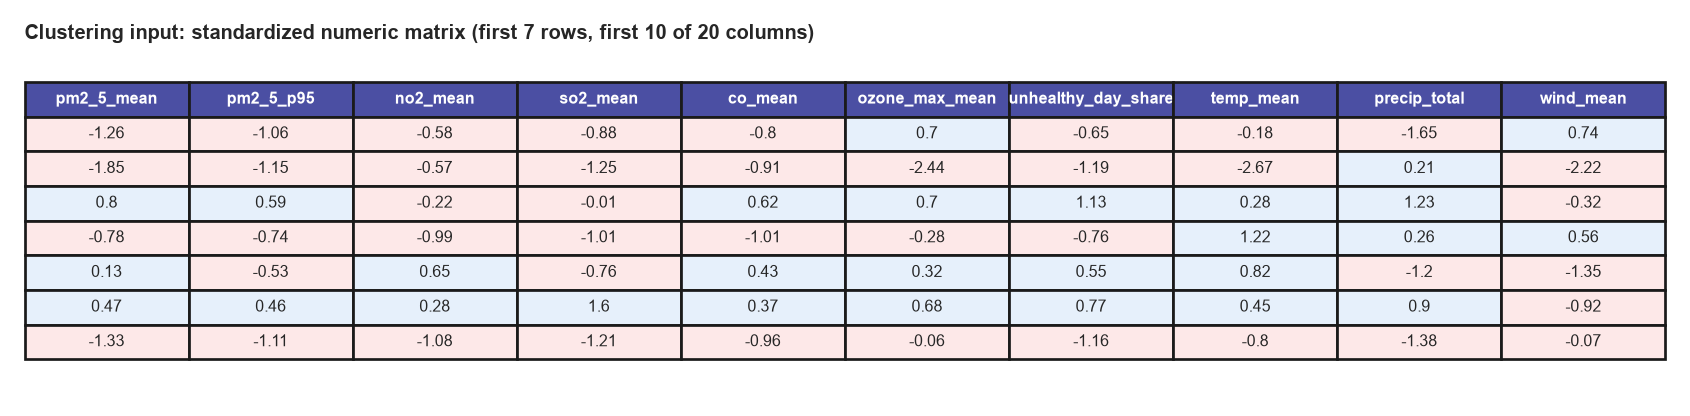
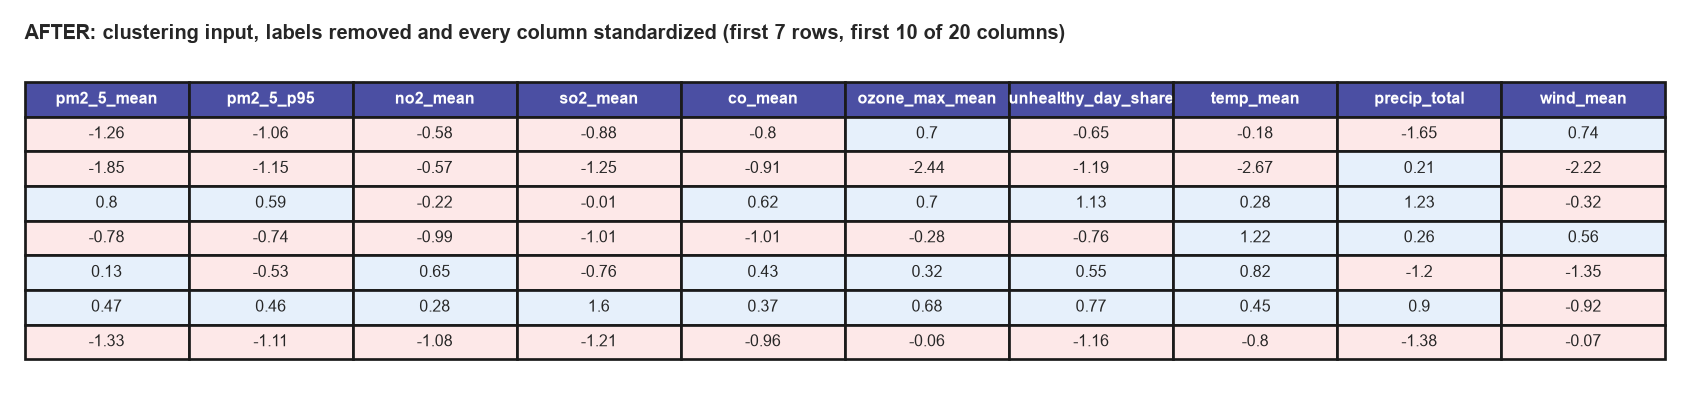
Add before/after data images, non-technical conclusions and PCA usage section to match rubric

Changed region(s): [[0.0, 0.0312, 0.6462, 0.0938]]

diff --git a/clustering.html b/clustering.html
@@ -39,7 +39,14 @@
 <h2>Data Prep</h2>
 <p>Clustering needs <b>unlabeled numeric data</b> only. Every column must be a number, because distances are computed between rows, and no label such as the city name, region or asthma category may be included, because a label would either break the distance calculation or leak the answer into the groups. Variables on large scales would also dominate the distances: carbon monoxide is measured in the hundreds while the unhealthy-day share is between 0 and 1. Every column was therefore standardized to a mean of 0 and a standard deviation of 1 (a z-score).</p>
 <p>The sample comes from the city-level table, which has one row per city (50 cities, no missing values). Twenty numeric columns were kept: <b>air quality</b> (mean and 95th percentile of PM2.5, nitrogen dioxide, sulphur dioxide, carbon monoxide, mean daily maximum ozone, share of days with AQI above 100), <b>weather</b> (mean temperature, total precipitation, mean wind speed) and <b>health</b> (county prevalence of uninsured adults, high blood pressure, asthma, heart disease, COPD, smoking, depression, diabetes, physical inactivity, obesity). PM10 and mean AQI were left out because they nearly duplicate PM2.5 and the unhealthy-day share and would count the same signal twice. The city name, state, county, region, latitude, longitude, population, number of days, and the High/Low asthma and PM2.5 levels were removed before clustering and kept aside to interpret the results.</p>
-<figure><a href="images/cluster_01_data_sample.png"><img src="images/cluster_01_data_sample.png" alt="Sample of the data given to the clustering algorithms"></a><figcaption><b>Sample of the data given to the clustering algorithms.</b> Each row is one city and each column is one standardized variable, with no names or labels attached; the first seven rows and ten of twenty columns are shown. Pink cells are below the average of all cities and blue cells are above it.</figcaption></figure>
+<figure><a href="images/cluster_01a_data_before.png"><img src="images/cluster_01a_data_before.png" alt="Before transforming: the cleaned city table"></a><figcaption><b>Before transforming: the cleaned city table.</b> The table mixes label columns (orange: city, state, region and asthma level) with numbers in very different units, such as carbon monoxide in the hundreds and COPD in single digits. Only the numeric columns (blue headers) can be used for clustering.</figcaption></figure>
+<h3>The transformation, step by step</h3>
+<ol>
+<li><b>Remove the labels.</b> City, state, county, region, the High/Low asthma level and the PM2.5 level, latitude, longitude, population and number of days were taken out of the matrix and stored separately. They are used only afterwards, to interpret the clusters.</li>
+<li><b>Drop duplicated signals.</b> PM10 and mean AQI were removed because they nearly repeat PM2.5 and the unhealthy-day share.</li>
+<li><b>Standardize every column.</b> Each value had its column average subtracted and was divided by the column standard deviation. For example, Albuquerque's mean PM2.5 of 7.37 (average of all 50 cities 10.54, standard deviation 2.53) becomes -1.26, and its carbon monoxide of 186.3 (average 223.7, standard deviation 46.6) becomes -0.80, so both now sit on the same scale.</li>
+</ol>
+<figure><a href="images/cluster_01_data_sample.png"><img src="images/cluster_01_data_sample.png" alt="After transforming: the data given to the clustering algorithms"></a><figcaption><b>After transforming: the data given to the clustering algorithms.</b> Each row is one city and each column is one standardized variable, with no names or labels attached; the first seven rows and ten of twenty columns are shown. Pink cells are below the average of all cities and blue cells are above it.</figcaption></figure>
 <ul>
 <li><a href="data/clean/clustering_input_numeric.csv">clustering_input_numeric.csv</a>: the 50 x 20 numeric matrix in original units (row order follows the city table)</li>
 <li><a href="data/clean/clustering_input_scaled.csv">clustering_input_scaled.csv</a>: the same matrix after standardization, which is what the algorithms receive</li>
@@ -83,8 +90,9 @@
 
 <section>
 <h2>Conclusions</h2>
-<p>The main discovery is that the pollution and the lung disease cluster in <b>different places</b>. The nine large metropolitan areas with the highest PM2.5 (Los Angeles, New York, Chicago, Atlanta, Charlotte, Washington, Phoenix, Riverside and San Diego, mean PM2.5 of 14.0 against 9.3 to 10.9 in the other clusters) have relatively low COPD (4.9%) and smoking (10.3%), while the heartland and Deep South cluster has only moderately elevated PM2.5 (10.9) but the highest COPD (7.2%), smoking (14.9%), obesity (36.5%) and asthma (11.2%). This is consistent with the weak negative link between city PM2.5 and asthma found during exploration (r = -0.12), and it suggests that smoking, obesity and socioeconomic conditions group with respiratory illness more closely than outdoor particulate pollution does at this coarse scale.</p>
-<p>Weather and geography sort cities as well: the warm cluster averages 20.4 C against 11.9 C for the cool cluster, and also has the highest share of uninsured adults (16.9%). The groups are real but loose, though, as shown by silhouette scores of about 0.2 and the disagreement between the two methods at k = 3 and k = 4. The answer to the Introduction question is therefore that the cities can be described by roughly two broad types or four finer ones, but with many cities sitting between types. Limits to keep in mind are that the pollution values come from a coarse model, the health values describe whole counties, and 50 cities is a small sample.</p>
+<p>American cities do fall into recognizable types, although the borders between the types are blurry. Four kinds of city stand out. <b>Large metropolitan areas with the dirtiest air</b> include Los Angeles, New York, Chicago, Atlanta, Washington, Phoenix and San Diego. <b>Heartland and Deep South cities</b>, such as Detroit, Cleveland, Memphis, Nashville and New Orleans, carry the heaviest burden of lung disease. <b>Cool, clean cities</b>, mostly in the West (Seattle, Denver, Boise, Salt Lake City and others), have the lowest average rates of smoking, obesity and COPD. <b>Warm, low-pollution cities</b>, such as Houston, Miami, Las Vegas and Tucson, have clean air but many adults without health insurance.</p>
+<p>The most important lesson is that the dirtiest air and the sickest lungs are not in the same places. The big metropolitan areas with the most polluted air have relatively low rates of COPD and smoking, while the heartland cities with only moderately polluted air have the highest rates of COPD, asthma, smoking and obesity. This matches the earlier finding that cities with more fine-particle pollution did not have more asthma, and it suggests that smoking, weight, income and access to health care shape how common lung disease is in a city at least as much as the outdoor air does. Weather and geography sort the cities as well, since the warm group averages about 20 degrees Celsius and the cool group about 12.</p>
+<p>These types are a helpful summary and not hard categories. Many cities sit between two groups, and two different grouping methods agreed on the broad picture but placed some cities differently. The air quality values are model estimates, the health values describe whole counties, and only 50 cities were studied, so the findings should be read as patterns and not as proof. For decision makers, the results suggest that smog and smoke warnings matter most in the big metropolitan areas, while stop-smoking and health insurance programs matter most in the heartland and the Deep South.</p>
 </section>
 
 </main>

diff --git a/pca.html b/pca.html
@@ -35,11 +35,22 @@
 <figure><a href="images/pca_00b_curse_of_dimensionality.png"><img src="images/pca_00b_curse_of_dimensionality.png" alt="The curse of dimensionality"></a><figcaption><b>The curse of dimensionality.</b> Averaged over 50 simulations of 300 random points, the ratio of the nearest to the farthest distance from one point climbs toward 1 as the number of dimensions grows, which means that neighbors stop looking different from strangers. The values come from a simulation of uniformly random points.</figcaption></figure>
 </section>
 
+<h3>How PCA is used in this project</h3>
+<p>The daily table describes every city-day with 13 measurements that overlap heavily: PM2.5 and PM10 are almost the same signal, three temperature columns move together, and ozone rises with sunshine. PCA is used here to (1) find out which measurements move together and which are independent, (2) shrink the 13 measurements to a few patterns that still describe most of the day-to-day variation, (3) draw the 20,075 city-days on a flat plot so that seasons, cities and AQI categories can be compared by eye, and (4) prepare a smaller, less redundant set of inputs for the models in the later parts of the project.</p>
+</section>
+
 <section>
 <h2>Data Prep</h2>
 <p>PCA requires a <b>numeric</b> matrix with <b>no missing values</b> and no label columns. Because it works on variance, variables with large units would dominate: carbon monoxide is measured in hundreds while precipitation is mostly near zero. Each column was therefore <b>centered and scaled</b> to a mean of 0 and a standard deviation of 1 before the analysis, so that PCA effectively decomposes the correlation matrix.</p>
 <p>The sample is the daily city table: <b>20,075 city-days by 13 numeric columns</b>. The variables are PM2.5, PM10, carbon monoxide, nitrogen dioxide, sulphur dioxide, maximum ozone, maximum AQI, mean, maximum and minimum temperature, precipitation, maximum wind speed and solar radiation. The city, state, date, month, season, region, AQI category and rainy-day flag were removed from the matrix and kept aside, to color the plots afterwards. Extreme smoke days were kept in the data, since they are real events, which means that they can pull the components toward pollution.</p>
-<figure><a href="images/pca_01_data_sample.png"><img src="images/pca_01_data_sample.png" alt="Sample of the data given to PCA"></a><figcaption><b>Sample of the data given to PCA.</b> Each row is one city-day and each column is one standardized measurement, with no names or labels attached; the first seven rows and ten of thirteen columns are shown. Pink cells are below the overall average and blue cells above it.</figcaption></figure>
+<figure><a href="images/pca_01a_data_before.png"><img src="images/pca_01a_data_before.png" alt="Before transforming: the cleaned daily table"></a><figcaption><b>Before transforming: the cleaned daily table.</b> The table mixes label columns (orange: city, date, season and AQI category) with measurements in very different units, such as carbon monoxide in the hundreds and precipitation in single digits. Only the numeric columns (blue headers) go into PCA.</figcaption></figure>
+<h3>The transformation, step by step</h3>
+<ol>
+<li><b>Remove the labels.</b> City, state, date, month, season, region, AQI category and the rainy-day flag were taken out of the matrix and kept aside, to color the plots afterwards.</li>
+<li><b>Keep the 13 numeric measurements</b> for all 20,075 city-days. There were no missing values to fill.</li>
+<li><b>Center and scale every column.</b> Each value had its column average subtracted and was divided by the column standard deviation. For example, on 1 January 2023 in Albuquerque the mean temperature of 6.5 C (average of all city-days 15.57, standard deviation 9.44) becomes -0.96, and carbon monoxide of 280.6 (average 225.95, standard deviation 89.67) becomes 0.61.</li>
+</ol>
+<figure><a href="images/pca_01_data_sample.png"><img src="images/pca_01_data_sample.png" alt="After transforming: the data given to PCA"></a><figcaption><b>After transforming: the data given to PCA.</b> Each row is one city-day and each column is one standardized measurement, with no names or labels attached; the first seven rows and ten of thirteen columns are shown. Pink cells are below the overall average and blue cells above it.</figcaption></figure>
 <ul>
 <li><a href="data/clean/pca_input_numeric.csv">pca_input_numeric.csv</a>: the full 20,075 x 13 numeric matrix in original units</li>
 <li><a href="data/clean/pca_scores_sample.csv">pca_scores_sample.csv</a>: the scores on the first five components for a random sample of 2,000 city-days, with the labels used for coloring</li>
@@ -80,8 +91,9 @@
 
 <section>
 <h2>Conclusions</h2>
-<p>The 13 daily measurements are far more redundant than they first appear. Three components (71.9% of the variance) are enough to describe the main patterns, and each has a plain meaning: how hot and sunny the day is (with ozone rising with it), how much combustion pollution has built up, and how wet and windy the weather is. Heat and ozone move together, and combustion pollution tends to build up on cool days, so the seasons leave two distinct signatures: summer smog on one axis and winter pollution on the other. Fine particles (PM2.5) load on both axes, which suggests that weather alone will not predict them well.</p>
-<p>The components also line up with air quality categories, so a day's position on just two axes already says a great deal about whether the air is likely to be unhealthy. At the city level, Los Angeles combines both kinds of pollution, desert and Southwest cities are mainly hot and ozone-driven, and cities such as Anchorage and Portland are low on both. For the rest of the project, these results suggest that later models can use a few components or a few carefully chosen variables in place of 13 overlapping ones. PCA is linear and sensitive to extreme days such as the smoke episodes, and the later components (beyond the third) carry small, harder-to-interpret shares of the variation.</p>
+<p>The 13 daily measurements are mostly telling the same few stories. About three patterns describe most of what changes from one day to the next: how hot and sunny the day is, how much traffic and heating pollution has built up, and how wet and windy the weather is. Hot, sunny summer days are when ozone smog is worst, while cool, still winter days are when exhaust-type pollution builds up near the ground. Fine particles belong to both stories, since they come from local pollution, from sunlight-driven chemistry and from smoke, which is why weather alone does not predict them well.</p>
+<p>The same two patterns line up with the air quality ratings, even though the method knew nothing about them: days rated Unhealthy or Very Unhealthy sit at the extreme end of both patterns, while Good days sit at the opposite end. Cities have their own signatures. Los Angeles combines both kinds of pollution, Phoenix and Riverside are mainly hot and smoggy, Anchorage and Portland are cool, with little of the warm-weather smog, and Honolulu, Tucson and Miami have the lowest build-up of combustion pollution. For everyday life, this means that summer afternoons are the time to watch for smog and cold winter days are the time to watch for traffic and heating pollution in big cities.</p>
+<p>The results also help the rest of the project, because a few combined patterns can replace many overlapping measurements in later predictions. The patterns are a simplified summary, and rare events such as the 2023 smoke episodes do not fit neatly into the usual seasonal stories, so they deserve separate attention.</p>
 </section>
 
 </main>

diff --git a/code/build_site.py b/code/build_site.py
@@ -396,7 +396,15 @@ clustering = f"""
 <h2>Data Prep</h2>
 <p>Clustering needs <b>unlabeled numeric data</b> only. Every column must be a number, because distances are computed between rows, and no label such as the city name, region or asthma category may be included, because a label would either break the distance calculation or leak the answer into the groups. Variables on large scales would also dominate the distances: carbon monoxide is measured in the hundreds while the unhealthy-day share is between 0 and 1. Every column was therefore standardized to a mean of 0 and a standard deviation of 1 (a z-score).</p>
 <p>The sample comes from the city-level table, which has one row per city (50 cities, no missing values). Twenty numeric columns were kept: <b>air quality</b> (mean and 95th percentile of PM2.5, nitrogen dioxide, sulphur dioxide, carbon monoxide, mean daily maximum ozone, share of days with AQI above 100), <b>weather</b> (mean temperature, total precipitation, mean wind speed) and <b>health</b> (county prevalence of uninsured adults, high blood pressure, asthma, heart disease, COPD, smoking, depression, diabetes, physical inactivity, obesity). PM10 and mean AQI were left out because they nearly duplicate PM2.5 and the unhealthy-day share and would count the same signal twice. The city name, state, county, region, latitude, longitude, population, number of days, and the High/Low asthma and PM2.5 levels were removed before clustering and kept aside to interpret the results.</p>
-{fig("cluster_01_data_sample.png", "Sample of the data given to the clustering algorithms",
+{fig("cluster_01a_data_before.png", "Before transforming: the cleaned city table",
+     "The table mixes label columns (orange: city, state, region and asthma level) with numbers in very different units, such as carbon monoxide in the hundreds and COPD in single digits. Only the numeric columns (blue headers) can be used for clustering.")}
+<h3>The transformation, step by step</h3>
+<ol>
+<li><b>Remove the labels.</b> City, state, county, region, the High/Low asthma level and the PM2.5 level, latitude, longitude, population and number of days were taken out of the matrix and stored separately. They are used only afterwards, to interpret the clusters.</li>
+<li><b>Drop duplicated signals.</b> PM10 and mean AQI were removed because they nearly repeat PM2.5 and the unhealthy-day share.</li>
+<li><b>Standardize every column.</b> Each value had its column average subtracted and was divided by the column standard deviation. For example, Albuquerque's mean PM2.5 of 7.37 (average of all 50 cities 10.54, standard deviation 2.53) becomes -1.26, and its carbon monoxide of 186.3 (average 223.7, standard deviation 46.6) becomes -0.80, so both now sit on the same scale.</li>
+</ol>
+{fig("cluster_01_data_sample.png", "After transforming: the data given to the clustering algorithms",
      "Each row is one city and each column is one standardized variable, with no names or labels attached; the first seven rows and ten of twenty columns are shown. Pink cells are below the average of all cities and blue cells are above it.")}
 <ul>
 <li><a href="{CLEANLINK}clustering_input_numeric.csv">clustering_input_numeric.csv</a>: the 50 x 20 numeric matrix in original units (row order follows the city table)</li>
@@ -449,8 +457,9 @@ clustering = f"""
 
 <section>
 <h2>Conclusions</h2>
-<p>The main discovery is that the pollution and the lung disease cluster in <b>different places</b>. The nine large metropolitan areas with the highest PM2.5 (Los Angeles, New York, Chicago, Atlanta, Charlotte, Washington, Phoenix, Riverside and San Diego, mean PM2.5 of 14.0 against 9.3 to 10.9 in the other clusters) have relatively low COPD (4.9%) and smoking (10.3%), while the heartland and Deep South cluster has only moderately elevated PM2.5 (10.9) but the highest COPD (7.2%), smoking (14.9%), obesity (36.5%) and asthma (11.2%). This is consistent with the weak negative link between city PM2.5 and asthma found during exploration (r = -0.12), and it suggests that smoking, obesity and socioeconomic conditions group with respiratory illness more closely than outdoor particulate pollution does at this coarse scale.</p>
-<p>Weather and geography sort cities as well: the warm cluster averages 20.4 C against 11.9 C for the cool cluster, and also has the highest share of uninsured adults (16.9%). The groups are real but loose, though, as shown by silhouette scores of about 0.2 and the disagreement between the two methods at k = 3 and k = 4. The answer to the Introduction question is therefore that the cities can be described by roughly two broad types or four finer ones, but with many cities sitting between types. Limits to keep in mind are that the pollution values come from a coarse model, the health values describe whole counties, and 50 cities is a small sample.</p>
+<p>American cities do fall into recognizable types, although the borders between the types are blurry. Four kinds of city stand out. <b>Large metropolitan areas with the dirtiest air</b> include Los Angeles, New York, Chicago, Atlanta, Washington, Phoenix and San Diego. <b>Heartland and Deep South cities</b>, such as Detroit, Cleveland, Memphis, Nashville and New Orleans, carry the heaviest burden of lung disease. <b>Cool, clean cities</b>, mostly in the West (Seattle, Denver, Boise, Salt Lake City and others), have the lowest average rates of smoking, obesity and COPD. <b>Warm, low-pollution cities</b>, such as Houston, Miami, Las Vegas and Tucson, have clean air but many adults without health insurance.</p>
+<p>The most important lesson is that the dirtiest air and the sickest lungs are not in the same places. The big metropolitan areas with the most polluted air have relatively low rates of COPD and smoking, while the heartland cities with only moderately polluted air have the highest rates of COPD, asthma, smoking and obesity. This matches the earlier finding that cities with more fine-particle pollution did not have more asthma, and it suggests that smoking, weight, income and access to health care shape how common lung disease is in a city at least as much as the outdoor air does. Weather and geography sort the cities as well, since the warm group averages about 20 degrees Celsius and the cool group about 12.</p>
+<p>These types are a helpful summary and not hard categories. Many cities sit between two groups, and two different grouping methods agreed on the broad picture but placed some cities differently. The air quality values are model estimates, the health values describe whole counties, and only 50 cities were studied, so the findings should be read as patterns and not as proof. For decision makers, the results suggest that smog and smoke warnings matter most in the big metropolitan areas, while stop-smoking and health insurance programs matter most in the heartland and the Deep South.</p>
 </section>
 """
 
@@ -477,11 +486,23 @@ pca_page = f"""
      "Averaged over 50 simulations of 300 random points, the ratio of the nearest to the farthest distance from one point climbs toward 1 as the number of dimensions grows, which means that neighbors stop looking different from strangers. The values come from a simulation of uniformly random points.")}
 </section>
 
+<h3>How PCA is used in this project</h3>
+<p>The daily table describes every city-day with 13 measurements that overlap heavily: PM2.5 and PM10 are almost the same signal, three temperature columns move together, and ozone rises with sunshine. PCA is used here to (1) find out which measurements move together and which are independent, (2) shrink the 13 measurements to a few patterns that still describe most of the day-to-day variation, (3) draw the 20,075 city-days on a flat plot so that seasons, cities and AQI categories can be compared by eye, and (4) prepare a smaller, less redundant set of inputs for the models in the later parts of the project.</p>
+</section>
+
 <section>
 <h2>Data Prep</h2>
 <p>PCA requires a <b>numeric</b> matrix with <b>no missing values</b> and no label columns. Because it works on variance, variables with large units would dominate: carbon monoxide is measured in hundreds while precipitation is mostly near zero. Each column was therefore <b>centered and scaled</b> to a mean of 0 and a standard deviation of 1 before the analysis, so that PCA effectively decomposes the correlation matrix.</p>
 <p>The sample is the daily city table: <b>{PR["n_rows"]:,} city-days by {PR["n_features"]} numeric columns</b>. The variables are PM2.5, PM10, carbon monoxide, nitrogen dioxide, sulphur dioxide, maximum ozone, maximum AQI, mean, maximum and minimum temperature, precipitation, maximum wind speed and solar radiation. The city, state, date, month, season, region, AQI category and rainy-day flag were removed from the matrix and kept aside, to color the plots afterwards. Extreme smoke days were kept in the data, since they are real events, which means that they can pull the components toward pollution.</p>
-{fig("pca_01_data_sample.png", "Sample of the data given to PCA",
+{fig("pca_01a_data_before.png", "Before transforming: the cleaned daily table",
+     "The table mixes label columns (orange: city, date, season and AQI category) with measurements in very different units, such as carbon monoxide in the hundreds and precipitation in single digits. Only the numeric columns (blue headers) go into PCA.")}
+<h3>The transformation, step by step</h3>
+<ol>
+<li><b>Remove the labels.</b> City, state, date, month, season, region, AQI category and the rainy-day flag were taken out of the matrix and kept aside, to color the plots afterwards.</li>
+<li><b>Keep the 13 numeric measurements</b> for all {PR["n_rows"]:,} city-days. There were no missing values to fill.</li>
+<li><b>Center and scale every column.</b> Each value had its column average subtracted and was divided by the column standard deviation. For example, on 1 January 2023 in Albuquerque the mean temperature of 6.5 C (average of all city-days 15.57, standard deviation 9.44) becomes -0.96, and carbon monoxide of 280.6 (average 225.95, standard deviation 89.67) becomes 0.61.</li>
+</ol>
+{fig("pca_01_data_sample.png", "After transforming: the data given to PCA",
      "Each row is one city-day and each column is one standardized measurement, with no names or labels attached; the first seven rows and ten of thirteen columns are shown. Pink cells are below the overall average and blue cells above it.")}
 <ul>
 <li><a href="{CLEANLINK}pca_input_numeric.csv">pca_input_numeric.csv</a>: the full {PR["n_rows"]:,} x {PR["n_features"]} numeric matrix in original units</li>
@@ -529,8 +550,9 @@ pca_page = f"""
 
 <section>
 <h2>Conclusions</h2>
-<p>The 13 daily measurements are far more redundant than they first appear. Three components (71.9% of the variance) are enough to describe the main patterns, and each has a plain meaning: how hot and sunny the day is (with ozone rising with it), how much combustion pollution has built up, and how wet and windy the weather is. Heat and ozone move together, and combustion pollution tends to build up on cool days, so the seasons leave two distinct signatures: summer smog on one axis and winter pollution on the other. Fine particles (PM2.5) load on both axes, which suggests that weather alone will not predict them well.</p>
-<p>The components also line up with air quality categories, so a day's position on just two axes already says a great deal about whether the air is likely to be unhealthy. At the city level, Los Angeles combines both kinds of pollution, desert and Southwest cities are mainly hot and ozone-driven, and cities such as Anchorage and Portland are low on both. For the rest of the project, these results suggest that later models can use a few components or a few carefully chosen variables in place of 13 overlapping ones. PCA is linear and sensitive to extreme days such as the smoke episodes, and the later components (beyond the third) carry small, harder-to-interpret shares of the variation.</p>
+<p>The 13 daily measurements are mostly telling the same few stories. About three patterns describe most of what changes from one day to the next: how hot and sunny the day is, how much traffic and heating pollution has built up, and how wet and windy the weather is. Hot, sunny summer days are when ozone smog is worst, while cool, still winter days are when exhaust-type pollution builds up near the ground. Fine particles belong to both stories, since they come from local pollution, from sunlight-driven chemistry and from smoke, which is why weather alone does not predict them well.</p>
+<p>The same two patterns line up with the air quality ratings, even though the method knew nothing about them: days rated Unhealthy or Very Unhealthy sit at the extreme end of both patterns, while Good days sit at the opposite end. Cities have their own signatures. Los Angeles combines both kinds of pollution, Phoenix and Riverside are mainly hot and smoggy, Anchorage and Portland are cool, with little of the warm-weather smog, and Honolulu, Tucson and Miami have the lowest build-up of combustion pollution. For everyday life, this means that summer afternoons are the time to watch for smog and cold winter days are the time to watch for traffic and heating pollution in big cities.</p>
+<p>The results also help the rest of the project, because a few combined patterns can replace many overlapping measurements in later predictions. The patterns are a simplified summary, and rare events such as the 2023 smoke episodes do not fit neatly into the usual seasonal stories, so they deserve separate attention.</p>
 </section>
 """
 

diff --git a/code/04_clustering.py b/code/04_clustering.py
@@ -45,6 +45,28 @@ def save(fig, name):
     plt.close(fig)
 
 
+def before_image(df, label_cols, num_cols, name, title):
+    """Image of the cleaned table BEFORE transforming: label columns (orange) are removed later, values are in original units."""
+    sample = df[label_cols + num_cols].head(7).copy()
+    for c in num_cols:
+        sample[c] = sample[c].round(2)
+    fig, ax = plt.subplots(figsize=(13, 3.2))
+    ax.axis("off")
+    ax.set_title(title, loc="left", fontsize=11, fontweight="bold")
+    t = ax.table(cellText=sample.astype(str).values, colLabels=sample.columns, loc="center", cellLoc="center")
+    t.auto_set_font_size(False)
+    t.set_fontsize(9)
+    t.scale(1, 1.5)
+    for (r, c), cell in t.get_celld().items():
+        is_label = c < len(label_cols)
+        if r == 0:
+            cell.set_facecolor("#c2661d" if is_label else "#4b4fa3")
+            cell.set_text_props(color="white", fontweight="bold")
+        else:
+            cell.set_facecolor("#fdebd3" if is_label else "#ffffff")
+    save(fig, name)
+
+
 # ------------------------------------------------------------------ data
 city = pd.read_csv(CLEAN / "city_air_weather_health_clean.csv")
 names = (city["city"] + ", " + city["state"]).tolist()
@@ -54,11 +76,16 @@ X.to_csv(CLEAN / "clustering_input_numeric.csv", index=False)
 pd.DataFrame(Xs, columns=FEATURES).round(4).to_csv(CLEAN / "clustering_input_scaled.csv", index=False)
 res = {"n_cities": len(city), "n_features": len(FEATURES), "features": FEATURES}
 
+before_image(city, ["city", "state", "region", "asthma_level"],
+             ["pm2_5_mean", "no2_mean", "co_mean", "temp_mean", "precip_total", "smoking", "copd"],
+             "cluster_01a_data_before.png",
+             "BEFORE: cleaned city table (orange label columns are removed; numbers are in original units)")
+
 # ------------------------------------------------------------------ sample image (data prep)
 sample = pd.DataFrame(Xs[:7, :10], columns=FEATURES[:10]).round(2)
 fig, ax = plt.subplots(figsize=(13, 3.2))
 ax.axis("off")
-ax.set_title("Clustering input: standardized numeric matrix (first 7 rows, first 10 of 20 columns)",
+ax.set_title("AFTER: clustering input, labels removed and every column standardized (first 7 rows, first 10 of 20 columns)",
              loc="left", fontsize=11, fontweight="bold")
 t = ax.table(cellText=sample.astype(str).values, colLabels=sample.columns, loc="center", cellLoc="center")
 t.auto_set_font_size(False)

diff --git a/code/05_pca.py b/code/05_pca.py
@@ -33,6 +33,28 @@ def save(fig, name):
     plt.close(fig)
 
 
+def before_image(df, label_cols, num_cols, name, title):
+    """Image of the cleaned table BEFORE transforming: label columns (orange) are removed later, values are in original units."""
+    sample = df[label_cols + num_cols].head(7).copy()
+    for c in num_cols:
+        sample[c] = sample[c].round(2)
+    fig, ax = plt.subplots(figsize=(13, 3.2))
+    ax.axis("off")
+    ax.set_title(title, loc="left", fontsize=11, fontweight="bold")
+    t = ax.table(cellText=sample.astype(str).values, colLabels=sample.columns, loc="center", cellLoc="center")
+    t.auto_set_font_size(False)
+    t.set_fontsize(9)
+    t.scale(1, 1.5)
+    for (r, c), cell in t.get_celld().items():
+        is_label = c < len(label_cols)
+        if r == 0:
+            cell.set_facecolor("#c2661d" if is_label else "#4b4fa3")
+            cell.set_text_props(color="white", fontweight="bold")
+        else:
+            cell.set_facecolor("#fdebd3" if is_label else "#ffffff")
+    save(fig, name)
+
+
 df = pd.read_csv(CLEAN / "daily_city_air_weather_clean.csv")
 X = df[FEATURES]
 X.to_csv(CLEAN / "pca_input_numeric.csv", index=False)
@@ -63,11 +85,16 @@ pd.DataFrame(scores[:, :5], columns=[f"PC{i+1}" for i in range(5)]).assign(
     city=df["city"], date=df["date"], season=df["season"], aqi_category=df["aqi_category"]
 ).sample(2000, random_state=SEED).round(4).to_csv(CLEAN / "pca_scores_sample.csv", index=False)
 
+before_image(df, ["city", "date", "season", "aqi_category"],
+             ["pm2_5", "co", "no2", "ozone_max", "temp_mean", "precip_mm", "wind_max"],
+             "pca_01a_data_before.png",
+             "BEFORE: cleaned daily table (orange label columns are removed; numbers are in original units)")
+
 # ------------------------------------------------------------------ sample image (data prep)
 sample = pd.DataFrame(Xs[:7, :10], columns=FEATURES[:10]).round(2)
 fig, ax = plt.subplots(figsize=(13, 3.2))
 ax.axis("off")
-ax.set_title("PCA input: standardized numeric matrix (first 7 rows, first 10 of 13 columns)",
+ax.set_title("AFTER: PCA input, labels removed and every column standardized (first 7 rows, first 10 of 13 columns)",
              loc="left", fontsize=11, fontweight="bold")
 t = ax.table(cellText=sample.astype(str).values, colLabels=sample.columns, loc="center", cellLoc="center")
 t.auto_set_font_size(False)

diff --git a/CLAUDE.md b/CLAUDE.md
@@ -38,6 +38,8 @@ Median daily PM2.5 9.3; 17% of city-days above the WHO 15 guideline. Los Angeles
 - `build_site.py` has been run successfully on the Mac setup. `code/02_clean_eda.py` has NOT been re-run under pandas 3. Do not re-run it until it has been checked for pandas 3 compatibility (it regenerates `data/clean/` and `images/`).
 - Site design copies a classmate's demo (Quarto-style): serif headings, IBM Plex Sans, indigo accent, dropdown nav (Unsupervised, Supervised), dark-mode toggle.
 
+- Canvas rubric (Part 2, all-or-nothing criteria; expect the same pattern later): Website UI = easily accessible tab names; Overview = method and distance metrics (or PCA, eigen, dimensionality) explained with 2+ images and how it is used in the project; Data Prep and code = images of the data frame BEFORE and AFTER transforming, well explained, plus an accessible link to the code (never paste code or code images), in R or Python; Results = explained with images (clustering: dendrogram, cluster images, 3+ k values, silhouette best k, k-means vs hclust comparison; PCA: how to visualize variable-component relationships); Conclusions must be non-technical and tied to the topic.
+
 ## Working conventions
 - Do NOT add a "Co-Authored-By: Claude" trailer to commits. The user had Claude removed from the GitHub contributors list (history was rewritten and force-pushed once).
 - Force-pushes and history rewrites need explicit user approval.
